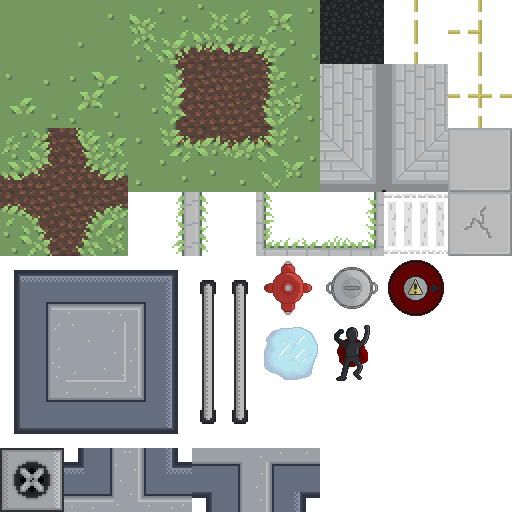
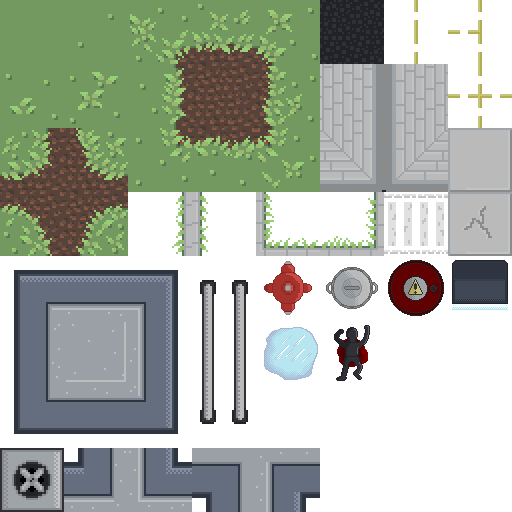
Pathing Update & Skill Change
Updated default enemy pathing behavior. Still some major kinks to work out, but it's good enough for now.

Added the "skill point vending machine" and removed the enemy controller's distribution of experience. Still some things that need to be removed to make the change complete.

Particles will now collide with non-walkable tiles.

Changed region(s): [[0.875, 0.5, 1.0, 0.625]]

diff --git a/src/com/grave/entities/enemies/Enemy.java b/src/com/grave/entities/enemies/Enemy.java
@@ -54,6 +54,8 @@ public abstract class Enemy implements Entity {
 	protected long lastAttack;
 	public abstract long getAttackDelay();
 
+	protected boolean sawPlayerLastStep;
+	protected Pair<Integer> lastKnownPlayerPosition;
 	protected Path path;
 	protected Pair<Integer> currentNode;
 
@@ -112,6 +114,8 @@ public abstract class Enemy implements Entity {
 		this.speed = 0.0f;
 		this.velocity = new Vector2f(0.0f, 0.0f);
 
+		this.sawPlayerLastStep = false;
+		this.lastKnownPlayerPosition = null;
 		this.path = null;
 		this.currentNode = null;
 
@@ -151,14 +155,16 @@ public abstract class Enemy implements Entity {
 			statusHandler.update((GameState)gs, cTime, delta);
 
 			updateFlash(cTime);
-			animation.getCurrentAnimation().update(cTime);
+
+			Animation state = animation.getCurrentAnimation();
+			if(state != null) state.update(cTime);
 
 			if(player.isAlive()) {
 				calculatePath(map);
 
 				if(touchingPlayer()) {
 					if(currentNode != null) {
-						path.clear();
+						if(path != null) path.clear();
 						currentNode = null;
 					}
 
@@ -197,6 +203,58 @@ public abstract class Enemy implements Entity {
 	public abstract void move(GameState gs, int delta);
 
 	protected void calculatePath(TMap map) {
+		Player player = Player.getPlayer();
+		boolean playerSighted = playerInSights(map);
+		Pair<Integer> gridCoords = map.worldToGridCoords(position);
+
+		if(playerSighted) {
+			// Follow flow field.
+			Pair<Integer> pPos = map.worldToGridCoords(player.getPosition());
+			if(pPos != lastKnownPlayerPosition) currentNode = player.getFlowField().cheapestNeighbor(gridCoords.x, gridCoords.y);
+			lastKnownPlayerPosition = pPos;
+			if(currentNode == null) currentNode = player.getFlowField().cheapestNeighbor(gridCoords.x, gridCoords.y);
+			if(!sawPlayerLastStep) {
+				// TODO: Make zombie noises?
+				System.out.println("Found you!");
+			}
+		} else {
+			if(sawPlayerLastStep) {
+				System.out.println("Where'd you go?");
+				// Just lost sight of player. Calculate A* path to last known player position.
+				path = new Path(map, gridCoords, lastKnownPlayerPosition);
+				if((path != null) && path.pathPossible()) currentNode = path.getNextNode();
+			} else {
+				if(path != null) {
+					if(!path.pathPossible()) {
+						System.out.println("I give up...");
+						path = null;
+						currentNode = null;
+					}
+				}
+			}
+		}
+
+		if(currentNode != null) {
+			// Travel towards node.
+			Pair<Float> target = new Pair<Float>((float)((currentNode.x * map.getTileWidth()) + (map.getTileWidth() / 2)), (float)((currentNode.y * map.getTileHeight()) + (map.getTileHeight() / 2)));
+			int ret = Calculate.FastDistanceCompare(position, target, (bounds.getWidth() / 2));
+			if(ret <= 0) {
+				if(path != null) currentNode = path.getNextNode();
+				else if(playerSighted) currentNode = player.getFlowField().cheapestNeighbor(gridCoords.x, gridCoords.y);
+
+				if(currentNode != null) {
+					target = new Pair<Float>((float)((currentNode.x * map.getTileWidth()) + (map.getTileWidth() / 2)), (float)((currentNode.y * map.getTileHeight()) + (map.getTileHeight() / 2)));
+					theta = Calculate.Hypotenuse(position, target);
+				}
+			}
+
+			if(currentNode != null) theta = Calculate.Hypotenuse(position, target);
+		}
+
+		sawPlayerLastStep = playerSighted;
+
+
+
 		// TODO: redesign this so path is only calculated when enemy is attacked, player is spotted, or noise is heard
 		/*
 		Player player = Player.getPlayer();
@@ -228,20 +286,30 @@ public abstract class Enemy implements Entity {
 				if(currentNode != null) theta = Calculate.Hypotenuse(position, target);
 			}
 		}*/
-		Player player = Player.getPlayer();
-		if(path != null) {
-			// Prioritize paths over flow field.
-		} else {
-			if(currentNode != null) {
-
-			} else {
-				// i dunno... wander about? search for player?
-			}
-		}
 	}
 
 	protected boolean hasTarget() {
-		return ((path != null) && (currentNode != null));
+		return (currentNode != null);
+	}
+
+	protected boolean playerInSights(TMap map) {
+		Player player = Player.getPlayer();
+		boolean inSight = true;
+
+		// TODO: Implement line of sight test.
+		float pTheta = Calculate.Hypotenuse(position, player.getPosition());
+		Pair<Float> ray = new Pair<Float>(position);
+		while(Calculate.FastDistanceCompare(ray, player.getPosition(), Globals.RAY_STEP_LENGTH) == 1) {
+			ray.x += ((float)Math.cos(pTheta) * Globals.RAY_STEP_LENGTH);
+			ray.y += ((float)Math.sin(pTheta) * Globals.RAY_STEP_LENGTH);
+			Pair<Integer> gridPos = map.worldToGridCoords(ray);
+			if(!map.isWalkable(gridPos.x, gridPos.y)) {
+				inSight = false;
+				break;
+			}
+		}
+
+		return inSight;
 	}
 
 	protected void avoidObstacles(GameState gs, int delta) {
@@ -354,8 +422,8 @@ public abstract class Enemy implements Entity {
 	@Override
 	public void render(GameState gs, Graphics g, long cTime) {
 		// All enemies should render their animation.
-		float pTheta = Calculate.Hypotenuse(position, Player.getPlayer().getPosition());
-		if(isAlive(cTime)) animation.getCurrentAnimation().render(g, position, pTheta, shouldDrawFlash(cTime));
+		//float pTheta = Calculate.Hypotenuse(position, Player.getPlayer().getPosition());
+		if(isAlive(cTime)) animation.getCurrentAnimation().render(g, position, theta, shouldDrawFlash(cTime));
 		statusHandler.render(g, cTime);
 
 		if(Globals.SHOW_COLLIDERS) {

diff --git a/src/com/grave/gfx/particles/Particle.java b/src/com/grave/gfx/particles/Particle.java
@@ -17,6 +17,7 @@ import com.grave.gfx.ColorGenerator;
 import com.grave.gfx.Layers;
 import com.grave.misc.Pair;
 import com.grave.states.GameState;
+import com.grave.tmx.TMap;
 
 public class Particle implements Entity {
 	protected Animation animation;
@@ -183,7 +184,17 @@ public class Particle implements Entity {
 
 	@Override
 	public void update(BasicGameState gs, long cTime, int delta) {
+		GameState game = (GameState) gs;
+		TMap map = game.getLevel().getMap();
+
 		if(isAlive(cTime)) {
+			// Check for collision with environment.
+			Pair<Integer> gridCoords = map.worldToGridCoords(position);
+			if(!map.isWalkable(gridCoords.x, gridCoords.y)) {
+				collision = true;
+				return;
+			}
+
 			if(animation != null) animation.update(cTime);
 			position.x += velocity * delta * (float)Math.cos(theta - (Math.PI / 2));
 			position.y += velocity * delta * (float)Math.sin(theta - (Math.PI / 2));

diff --git a/src/com/grave/world/GameObject.java b/src/com/grave/world/GameObject.java
@@ -15,7 +15,8 @@ public class GameObject implements Entity {
 		TRASH_CAN(Interactions.ONE_RANDOM_RESOURCE),
 		FIRE_HYDRANT(Interactions.NONE),
 		DEAD_BODY(Interactions.RANDOM_RESOURCES),
-		EXPLOSIVE_BARREL(Interactions.NONE);
+		EXPLOSIVE_BARREL(Interactions.NONE),
+		VENDING_MACHINE(Interactions.SKILL_POINT);
 
 		private Interactions interaction;
 		public Interactions getInteraction() { return interaction; }
@@ -62,6 +63,7 @@ public class GameObject implements Entity {
 			case 37: return Type.FIRE_HYDRANT;
 			case 38: return Type.TRASH_CAN;
 			case 39: return Type.EXPLOSIVE_BARREL;
+			case 40: return Type.VENDING_MACHINE;
 			case 46: return Type.DEAD_BODY;
 			default: return Type.NONE;
 		}

diff --git a/src/com/grave/entities/Player.java b/src/com/grave/entities/Player.java
@@ -672,6 +672,15 @@ public class Player implements Entity {
 		Scorekeeper.getInstance().addMoney(amnt);
 	}
 
+	public void addSkillPoint(GameState gs, long cTime, int amnt) {
+		if(amnt > 0) {
+			attributes.addTo("skillPoints", amnt);
+			String status = String.format("Got %d skill %s!", amnt, ((amnt > 1) ? "points" : "point"));
+			StatusMessages.getInstance().addMessage(status, this, Player.ABOVE_1, cTime, 2_000L);
+			AssetManager.getManager().getSound("level-up").play(1.0f, AssetManager.getManager().getSoundVolume());
+		}
+	}
+
 	public void addExperience(GameState gs, int amnt, long cTime) {
 		addExperience(gs, amnt, cTime, true);
 	}

diff --git a/src/com/grave/world/Interactions.java b/src/com/grave/world/Interactions.java
@@ -2,6 +2,7 @@ package com.grave.world;
 
 import com.grave.AssetManager;
 import com.grave.Globals;
+import com.grave.entities.Player;
 import com.grave.misc.Pair;
 import com.grave.objects.crafting.Resources;
 import com.grave.objects.items.ResourceDrop;
@@ -48,6 +49,11 @@ public enum Interactions {
 
 		gs.getLevel().addEntity(exp.getTag(), exp);
 		AssetManager.getManager().getSound("explosion2").play(1.0f, AssetManager.getManager().getSoundVolume());
+	}),
+
+	SKILL_POINT((gs, pos, cTime) -> {
+		Player player = Player.getPlayer();
+		player.addSkillPoint(gs, cTime, 1);
 	});
 
 	private Interaction action;

diff --git a/src/com/grave/entities/enemies/EnemyController.java b/src/com/grave/entities/enemies/EnemyController.java
@@ -268,7 +268,7 @@ public class EnemyController implements Entity {
 				if(enemy.dead()) enemy.onDeath(gs, cTime);
 				if(!enemy.isAlive(cTime)) {
 					// If the enemy died, give the player experience and cash, and remove the enemy.
-					player.addExperience(gs, enemy.getExpValue(), cTime);
+					//player.addExperience(gs, enemy.getExpValue(), cTime);
 
 					int money = enemy.getCashValue();
 					if(Talents.Tactics.WINDFALL.active()) money += (money * (Talents.Tactics.WINDFALL.ranks() * 0.1));

diff --git a/src/com/grave/Globals.java b/src/com/grave/Globals.java
@@ -15,7 +15,9 @@ public class Globals {
 	public static final int STEP_TIME = 1000 / TARGET_FPS;
 	public static final int MAX_STEPS = 4;
 
-	public static final boolean SHOW_COLLIDERS = true; // Disabled in player releases.
+	public static final float RAY_STEP_LENGTH = 32;
+
+	public static final boolean SHOW_COLLIDERS = false; // Disabled in player releases.
 	public static final boolean ENABLE_CONSOLE = true; // TODO: Disable for player releases.
 
 	public static int WIDTH = 1024;

diff --git a/src/com/grave/world/pathing/FlowField.java b/src/com/grave/world/pathing/FlowField.java
@@ -52,8 +52,6 @@ public class FlowField {
 			unexplored.clear();
 			unexplored.addAll(toExplore);
 		}
-
-		print();
 	}
 
 	private List<Pair<Integer>> explore(int x, int y, List<Pair<Integer>> visited) {

diff --git a/src/com/grave/tmx/TParser.java b/src/com/grave/tmx/TParser.java
@@ -87,6 +87,7 @@ public class TParser {
 			case 37:
 			case 38:
 			case 39:
+			case 40:
 			case 41:
 			case 42:
 			case 43:
